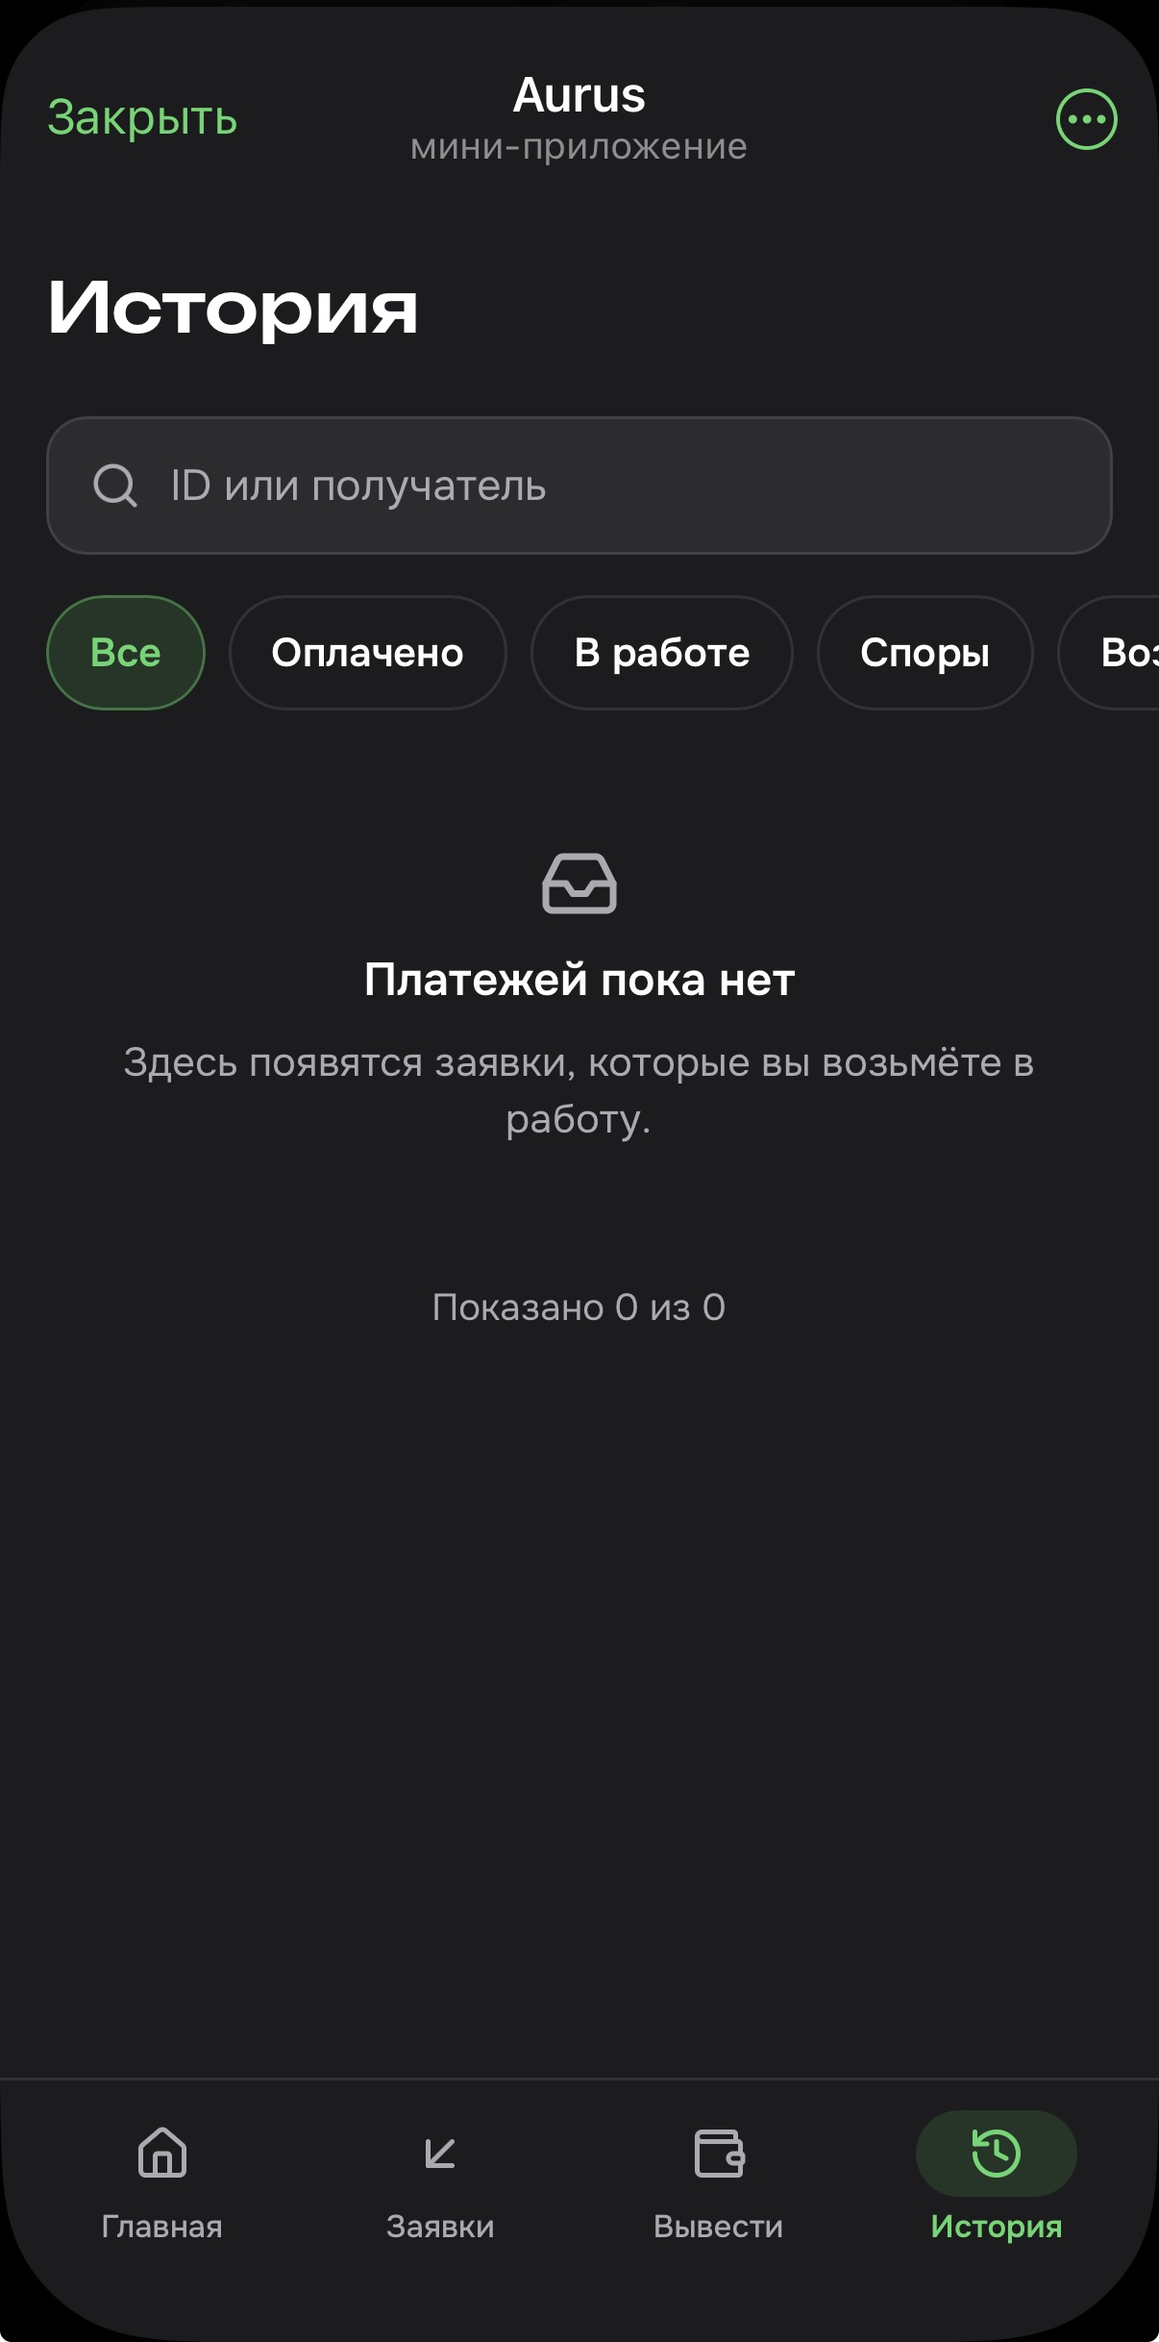
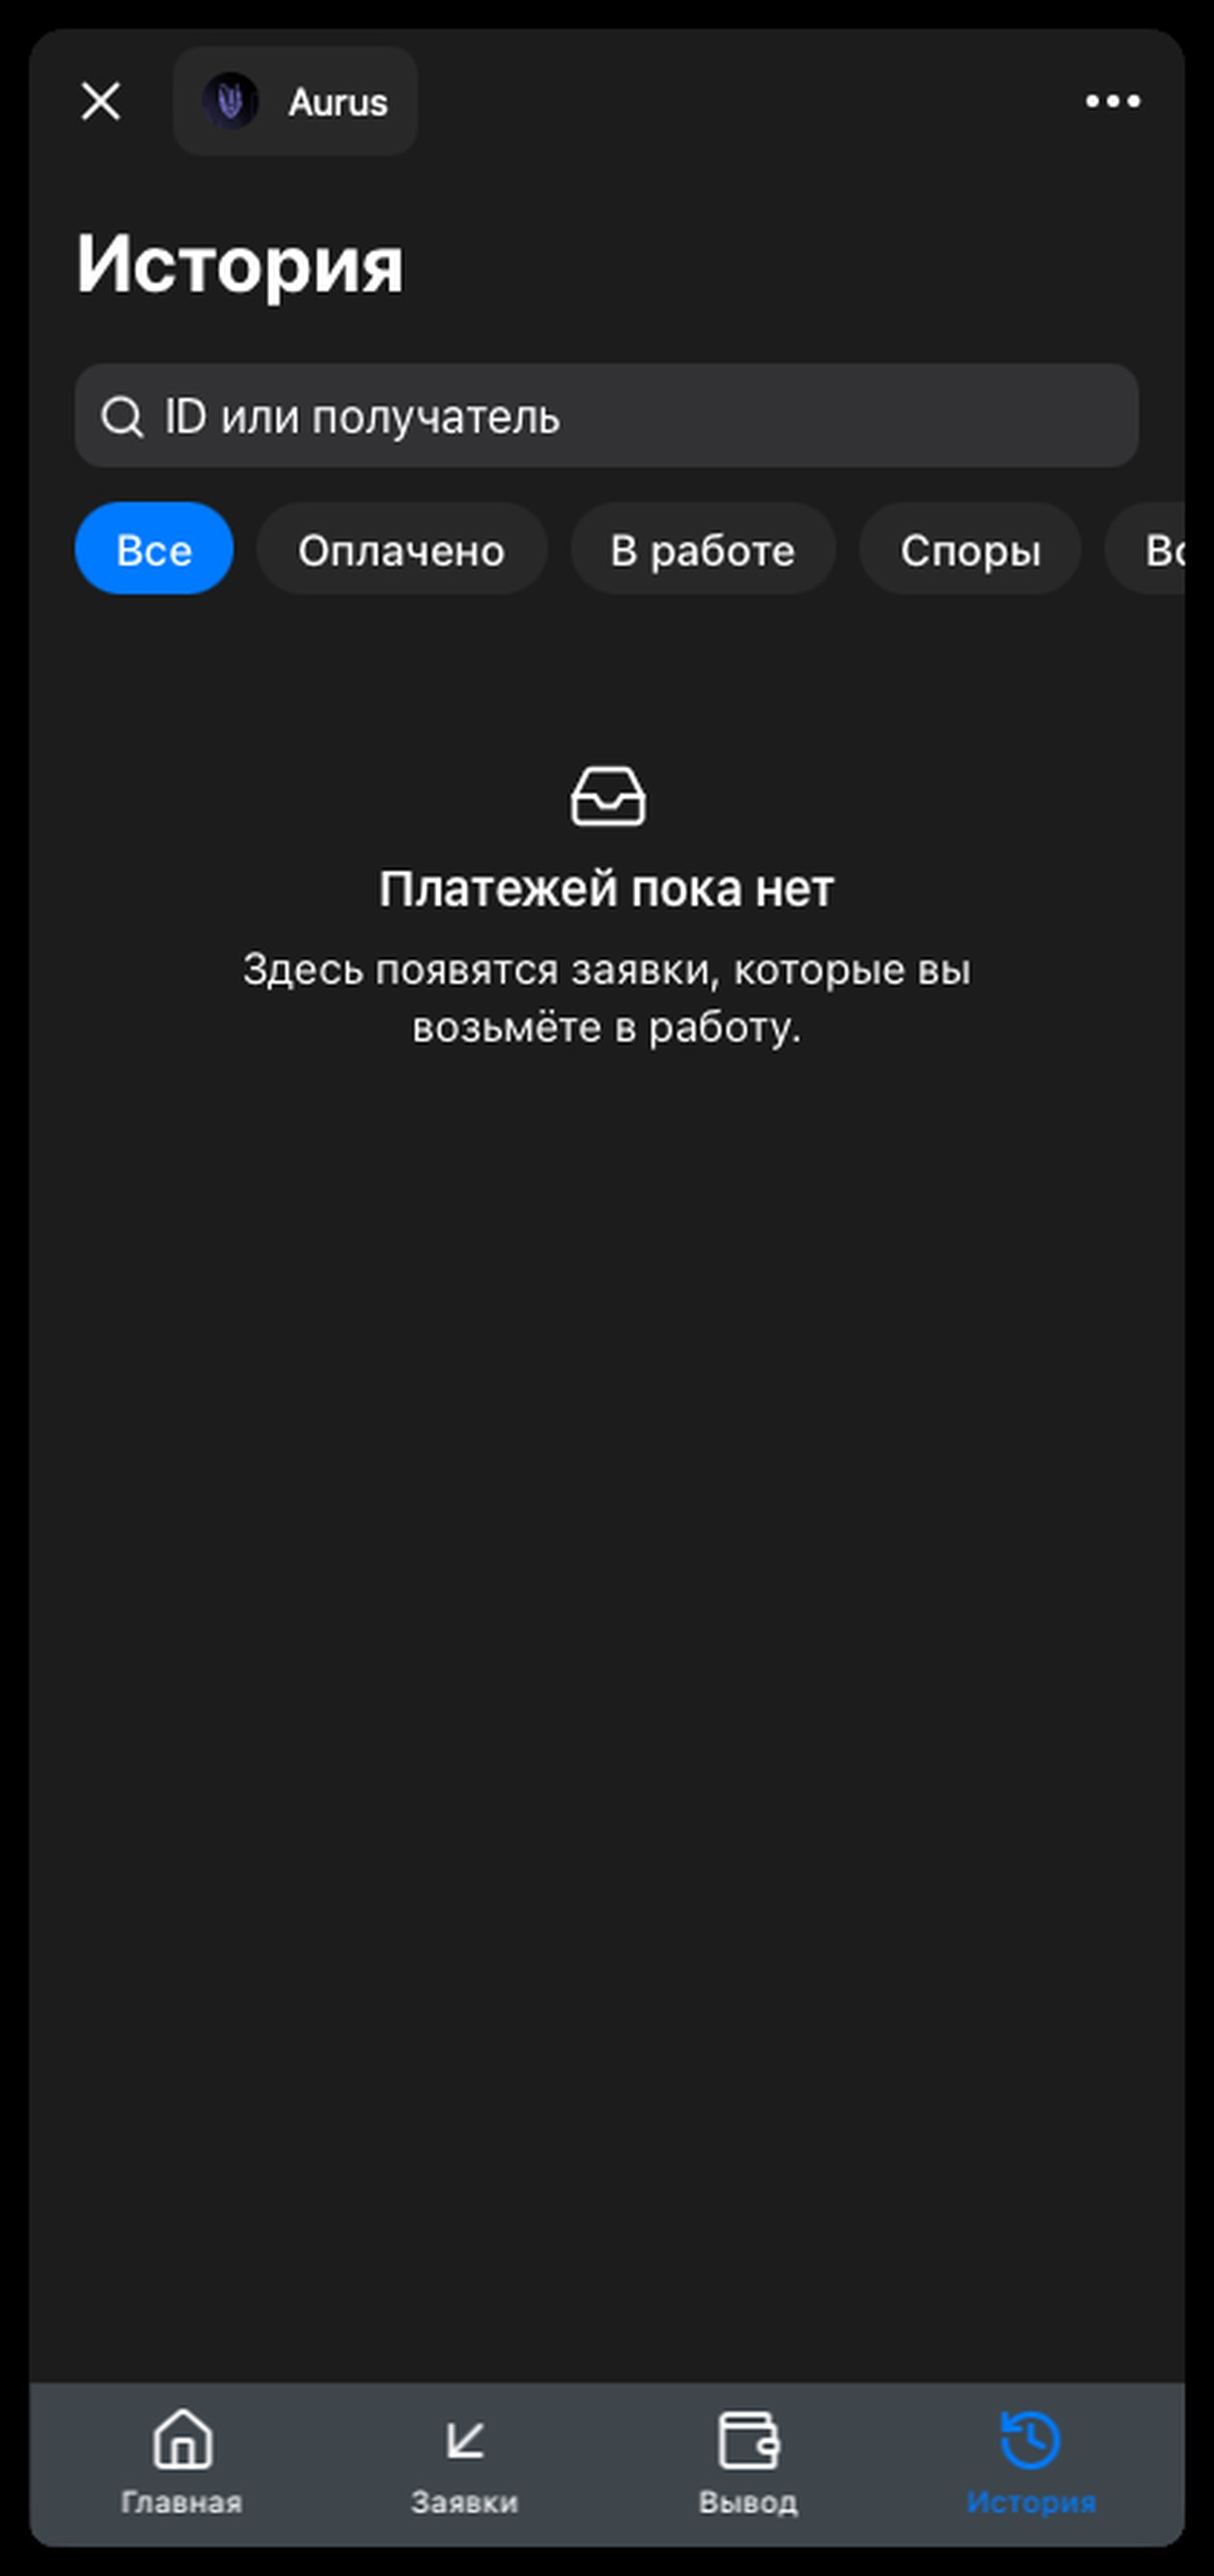
Обновить кейс Aurus: новые скриншоты и описание

diff --git a/index.html b/index.html
@@ -135,7 +135,7 @@
                     <article class="order-card" tabindex="0">
                         <div class="order-card-summary">
                             <h4>Aurus</h4>
-                            <p>Сервис оплаты QR-заявок: Telegram-бот, Mini App, кабинеты трейдера и администратора, API для мерчантов. Читает QR со скриншотов, распределяет заявки, считает курс и комиссии, резервирует USDT. Пополнения в TRON зачисляются автоматически, чеки уходят в Telegram, есть споры и возвраты. В Ozon, МТС и ВБ Банке есть автооплата через PayTalon, в остальных банках платит трейдер.</p>                        </div>
+                            <p>Сервис оплаты QR-заявок: Telegram-бот и Mini App с кабинетом трейдера и панелью администратора, API для мерчантов. Читает QR со скриншотов, распределяет заявки по трейдерам на линии (вручную или автоматически), фиксирует курс USDT при квоте, считает комиссии и резервирует баланс. Пополнения в TRON зачисляются автоматически, чеки и события уходят в Telegram, есть споры, каскад заявок и возвраты. В Ozon, МТС и ВБ Банке работает автооплата через PayTalon с учётом телефонов в сети, в остальных банках платит трейдер. У администратора — обзор оборота и маржи, заявки с поиском и фильтрами, трейдеры и запросы на доступ, кошельки, выводы, доставка событий и журнал действий.</p>                        </div>
                         <div class="order-card-details">
                             <dl class="order-facts">
                                 <div><dt>Стоимость</dt><dd>620 $</dd></div>

diff --git a/portfolio.js b/portfolio.js
@@ -54,9 +54,10 @@
       media: [
         'public/client-cases/aurus-home.jpg',
         'public/client-cases/aurus-orders.jpg',
-        'public/client-cases/aurus-withdrawal.jpg',
         'public/client-cases/aurus-history.jpg',
-        'public/client-cases/aurus-bot.jpg',
+        'public/client-cases/aurus-admin-overview.jpg',
+        'public/client-cases/aurus-admin-orders.jpg',
+        'public/client-cases/aurus-admin-more.jpg',
       ],
     },
     {
